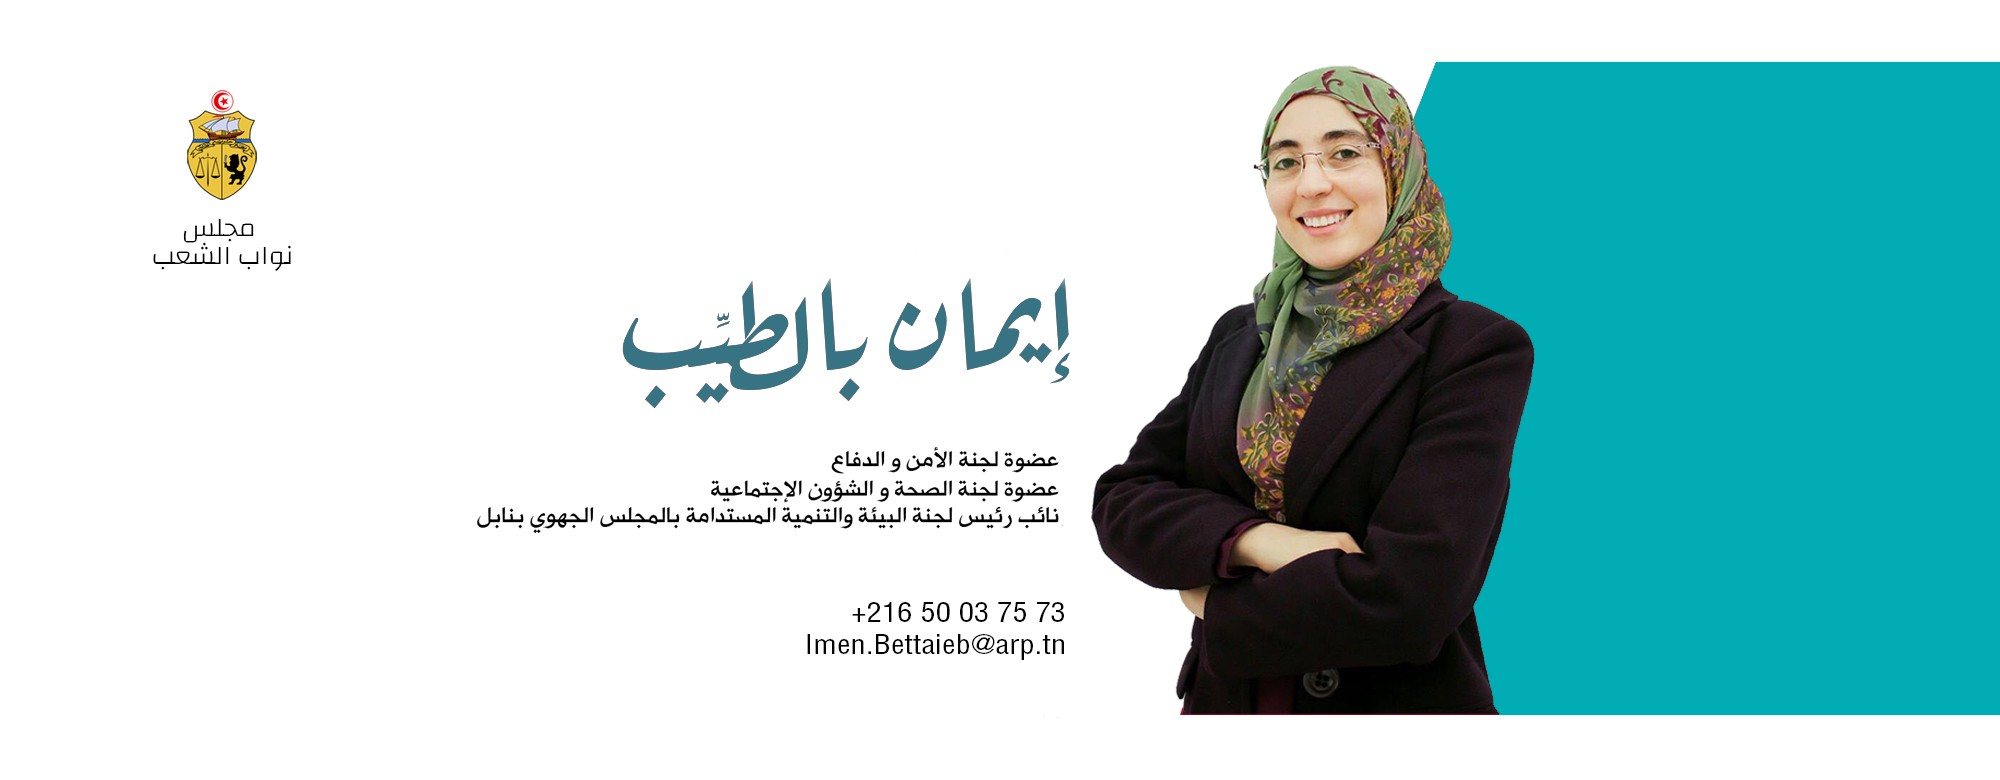
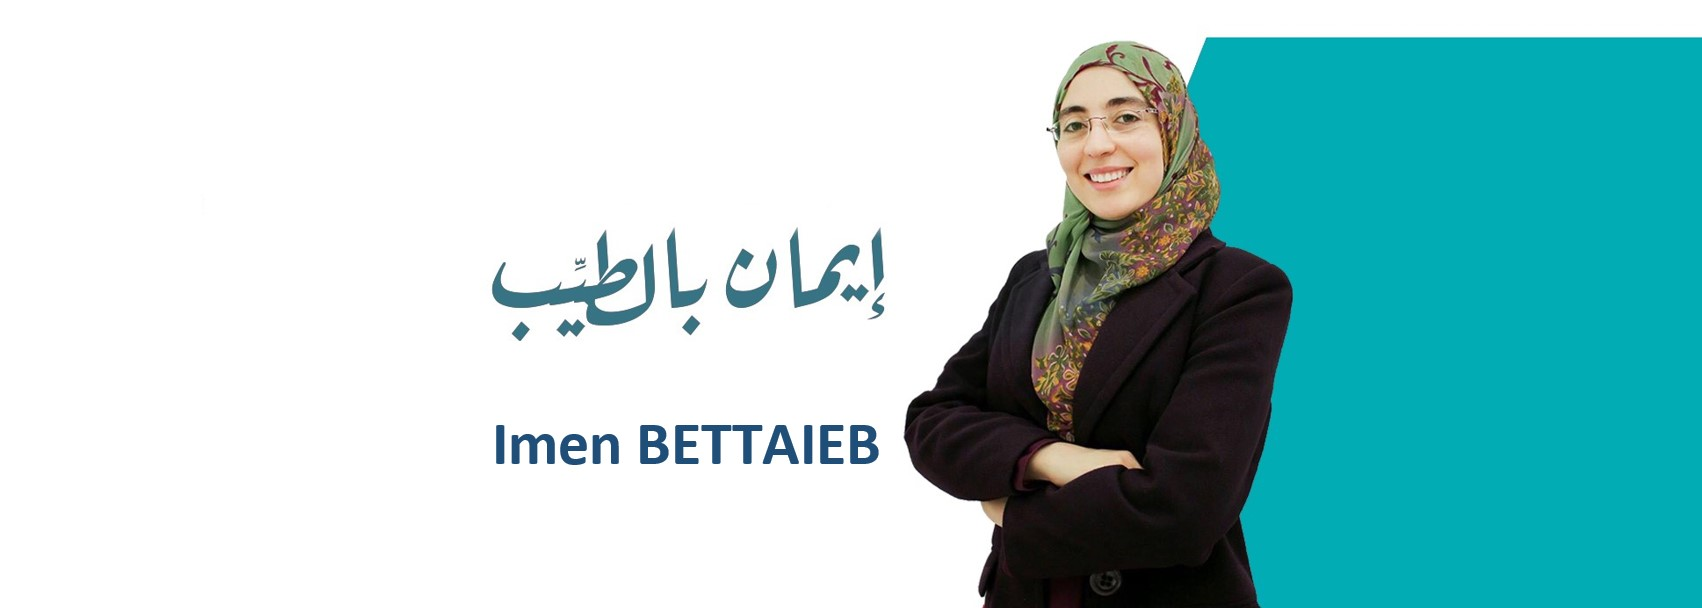
Small changes to the website
* Update index.html
* Add new banner

diff --git a/index.html b/index.html
@@ -2,7 +2,7 @@
 
 <html>
 <head>
-    <title>Imen Bettaieb - Députée au parlement Tunisien</title>
+    <title>Imen Bettaieb - Official Website </title>
     <meta charset="utf-8"/>
     <meta name="viewport" content="width=device-width, initial-scale=1"/>
     <link rel="stylesheet" href="assets/css/main.css"/>
@@ -16,6 +16,7 @@
 
         gtag('config', 'UA-108763508-2');
     </script>
+	<script src="https://platform.linkedin.com/badges/js/profile.js" async defer type="text/javascript"></script>
     <script id="facebook-jssdk" src="https://connect.facebook.net/en_US/sdk/xfbml.customerchat.js#xfbml=1&amp;version=v2.12&amp;autoLogAppEvents=1"></script>
     <style type="text/css" data-fbcssmodules="css:fb.css.basecss:fb.css.dialog css:fb.css.iframewidget css:fb.css.customer_chat_plugin_iframe">.fb_hidden{position:absolute;top:-10000px;z-index:10001}.fb_reposition{overflow:hidden;position:relative}.fb_invisible{display:none}.fb_reset{background:none;border:0;border-spacing:0;color:#000;cursor:auto;direction:ltr;font-family:"lucida grande", tahoma, verdana, arial, sans-serif;font-size:11px;font-style:normal;font-variant:normal;font-weight:normal;letter-spacing:normal;line-height:1;margin:0;overflow:visible;padding:0;text-align:left;text-decoration:none;text-indent:0;text-shadow:none;text-transform:none;visibility:visible;white-space:normal;word-spacing:normal}.fb_reset>div{overflow:hidden}@keyframes fb_transform{from{opacity:0;transform:scale(.95)}to{opacity:1;transform:scale(1)}}.fb_animate{animation:fb_transform .3s forwards}
     .fb_dialog{background:rgba(82, 82, 82, .7);position:absolute;top:-10000px;z-index:10001}.fb_dialog_advanced{border-radius:8px;padding:10px}.fb_dialog_content{background:#fff;color:#373737}.fb_dialog_close_icon{background:url(https://static.xx.fbcdn.net/rsrc.php/v3/yq/r/IE9JII6Z1Ys.png) no-repeat scroll 0 0 transparent;cursor:pointer;display:block;height:15px;position:absolute;right:18px;top:17px;width:15px}.fb_dialog_mobile .fb_dialog_close_icon{left:5px;right:auto;top:5px}.fb_dialog_padding{background-color:transparent;position:absolute;width:1px;z-index:-1}.fb_dialog_close_icon:hover{background:url(https://static.xx.fbcdn.net/rsrc.php/v3/yq/r/IE9JII6Z1Ys.png) no-repeat scroll 0 -15px transparent}.fb_dialog_close_icon:active{background:url(https://static.xx.fbcdn.net/rsrc.php/v3/yq/r/IE9JII6Z1Ys.png) no-repeat scroll 0 -30px transparent}.fb_dialog_iframe{line-height:0}.fb_dialog_content .dialog_title{background:#6d84b4;border:1px solid #365899;color:#fff;font-size:14px;font-weight:bold;margin:0}.fb_dialog_content .dialog_title>span{background:url(https://static.xx.fbcdn.net/rsrc.php/v3/yd/r/Cou7n-nqK52.gif) no-repeat 5px 50%;float:left;padding:5px 0 7px 26px}body.fb_hidden{height:100%;left:0;margin:0;overflow:visible;position:absolute;top:-10000px;transform:none;width:100%}.fb_dialog.fb_dialog_mobile.loading{background:url(https://static.xx.fbcdn.net/rsrc.php/v3/ya/r/3rhSv5V8j3o.gif) white no-repeat 50% 50%;min-height:100%;min-width:100%;overflow:hidden;position:absolute;top:0;z-index:10001}.fb_dialog.fb_dialog_mobile.loading.centered{background:none;height:auto;min-height:initial;min-width:initial;width:auto}.fb_dialog.fb_dialog_mobile.loading.centered #fb_dialog_loader_spinner{width:100%}.fb_dialog.fb_dialog_mobile.loading.centered .fb_dialog_content{background:none}.loading.centered #fb_dialog_loader_close{clear:both;color:#fff;display:block;font-size:18px;padding-top:20px}#fb-root #fb_dialog_ipad_overlay{background:rgba(0, 0, 0, .4);bottom:0;left:0;min-height:100%;position:absolute;right:0;top:0;width:100%;z-index:10000}#fb-root #fb_dialog_ipad_overlay.hidden{display:none}.fb_dialog.fb_dialog_mobile.loading iframe{visibility:hidden}.fb_dialog_mobile .fb_dialog_iframe{position:sticky;top:0}.fb_dialog_content .dialog_header{background:linear-gradient(from(#738aba), to(#2c4987));border-bottom:1px solid;border-color:#043b87;box-shadow:white 0 1px 1px -1px inset;color:#fff;font:bold 14px Helvetica, sans-serif;text-overflow:ellipsis;text-shadow:rgba(0, 30, 84, .296875) 0 -1px 0;vertical-align:middle;white-space:nowrap}.fb_dialog_content .dialog_header table{height:43px;width:100%}.fb_dialog_content .dialog_header td.header_left{font-size:12px;padding-left:5px;vertical-align:middle;width:60px}.fb_dialog_content .dialog_header td.header_right{font-size:12px;padding-right:5px;vertical-align:middle;width:60px}.fb_dialog_content .touchable_button{background:linear-gradient(from(#4267B2), to(#2a4887));background-clip:padding-box;border:1px solid #29487d;border-radius:3px;display:inline-block;line-height:18px;margin-top:3px;max-width:85px;padding:4px 12px;position:relative}.fb_dialog_content .dialog_header .touchable_button input{background:none;border:none;color:#fff;font:bold 12px Helvetica, sans-serif;margin:2px -12px;padding:2px 6px 3px 6px;text-shadow:rgba(0, 30, 84, .296875) 0 -1px 0}.fb_dialog_content .dialog_header .header_center{color:#fff;font-size:16px;font-weight:bold;line-height:18px;text-align:center;vertical-align:middle}.fb_dialog_content .dialog_content{background:url(https://static.xx.fbcdn.net/rsrc.php/v3/y9/r/jKEcVPZFk-2.gif) no-repeat 50% 50%;border:1px solid #4a4a4a;border-bottom:0;border-top:0;height:150px}.fb_dialog_content .dialog_footer{background:#f5f6f7;border:1px solid #4a4a4a;border-top-color:#ccc;height:40px}#fb_dialog_loader_close{float:left}.fb_dialog.fb_dialog_mobile .fb_dialog_close_icon{visibility:hidden}#fb_dialog_loader_spinner{animation:rotateSpinner 1.2s linear infinite;background-color:transparent;background-image:url(https://static.xx.fbcdn.net/rsrc.php/v3/yD/r/t-wz8gw1xG1.png);background-position:50% 50%;background-repeat:no-repeat;height:24px;width:24px}@keyframes rotateSpinner{0%{transform:rotate(0deg)}100%{transform:rotate(360deg)}}
@@ -29,13 +30,13 @@
     <nav class="left">
 
     </nav>
-    <a href="index.html" class="logo">نائب في البرلمان التونسي - نابل 1</a>
+    <a href="index.html" class="logo">الموقع الرسمي إيمان بالطيب - Official Website Imen Bettaieb</a>
 </header>
 
 
 <!-- Banner -->
 <section id="banner">
-    <div class="content">
+    <!-- <div class="content"> -->
 
     </div>
 </section>
@@ -52,32 +53,60 @@
     <!--<center><a href="https://imenbettaieb.com" target="blank"><img alt="Imen Bettaieb" src="/assets/banner.jpeg" style="width: 1170px; height: 692px;"> </a></center>-->
 <!--</div>-->
 <div id="fb-root"></div>
-
 <section id="one" class="wrapper">
     <div class="inner">
-        <h2 dir="rtl">مرحبا بكم في الموقع الرسمي لفريق العمل النيابي !</h2>
+	
+        <h2 dir="rtl">Engineer, Entrepreneur, Coach, PIC Facilitator, Trainer, University Teacher, Former Member of Parliament, Civil Society Activist <p></p>	مهندسة, رائدة أعمال, كوتش, ميسرة , أستاذة جامعية , ناشطة في المجتمع المدني ونايبة شعب سابقا
+       		
+		
+		</h2>
         <div dir="rtl">
-            <p>للتواصل، يرجى تعمير <a href="/istimara.pdf" target="blank">الإستمارة التالية</a> و إرسالها في نسخة
-                إلكترونية على البريد الالكتروني للنائب
-            </p>
-            <p></p>
-        </div>
+           
+			<p>هذا الموقع قيد الاعداد - Website under construction</p> 
+<!-- Banner --><!--<div attribution="setup_tool" class="fb-customerchat" logged_in_greeting="Hi! - مرحبا  - Bonjour" logged_out_greeting="Hi! How can we help you? - مرحبا كيف يمكن مساعدتك ؟  - Bonjour, besoin d'aide ?" page_id="680211362025788" theme_color="#7646ff">--><!--<center><a href="https://imenbettaieb.com" target="blank"><img alt="Imen Bettaieb" src="/assets/banner.jpeg" style="width: 1170px; height: 692px;"> </a></center>--><!--</div>-->
+
+<!--<<h2><img src="https://media-exp1.licdn.com/dms/image/C4E03AQEAlxY7P0Okqg/profile-displayphoto-shrink_400_400/0/1637175391378?e=1659571200&amp;v=beta&amp;t=-S1XFvzs0-CiI6vlQyN-CU5xz0sVauOM_ikkr09E-3A" /></h2>
+
+<p><span style="font-size:18px"><strong>Engineer, Entrepreneur, Coach, PIC Facilitator, Trainer, University Teacher, Former Member of Parliament, Civil Society Activist.</strong></span></p>
+
+<p><span style="font-size:18px"><strong>مهندسة, رائدة أعمال, كوتش, ميسرة , أستاذة جامعية , ناشطة في المجتمع المدني ونايبة شعب سابقا&nbsp;</strong></span></p>
+
+<a class="badge-base__link LI-simple-link" href="https://tn.linkedin.com/in/bettaieb/en?trk=profile-badge">Linkedin</a>
+
+<p>&nbsp;</p>
+			
+        </div>-->
+		
+		
     </div>
 </section>
 <!-- Footer -->
 <footer id="footer">
     <div class="inner">
-        <h2 dir="rtl">للتواصل معنا !</h2>
+        <h2 dir="rtl">Get in touch - للتواصل معنا</h2>
         <ul class="actions">
             <li><span class="icon fa-facebook"></span> <a href="https://www.facebook.com/ImenBettaiebOfficial">Imen Bettaieb - إيمان بالطيّب</a> </li>
-        </ul>
+<a class="badge-base__link LI-simple-link" href="https://tn.linkedin.com/in/bettaieb/en?trk=profile-badge">Linkedin</a>       
+	   </ul>
     </div>
-    <div class="copyright">
-        &copy; All right Reversed. Imen Bettaieb
+    
+	
+
+
+<!-- Scripts -->
+	
+	
+	
+	<div class="copyright">
+	
+	
+        &copy; All right Reserved - Imen Bettaieb© 
     </div>
 </footer>
 
 <!-- Scripts -->
+<script src="https://platform.linkedin.com/badges/js/profile.js" async defer type="text/javascript"></script>
+    
 <script src="assets/js/jquery.min.js"></script>
 <script src="assets/js/jquery.scrolly.min.js"></script>
 <script src="assets/js/skel.min.js"></script>
